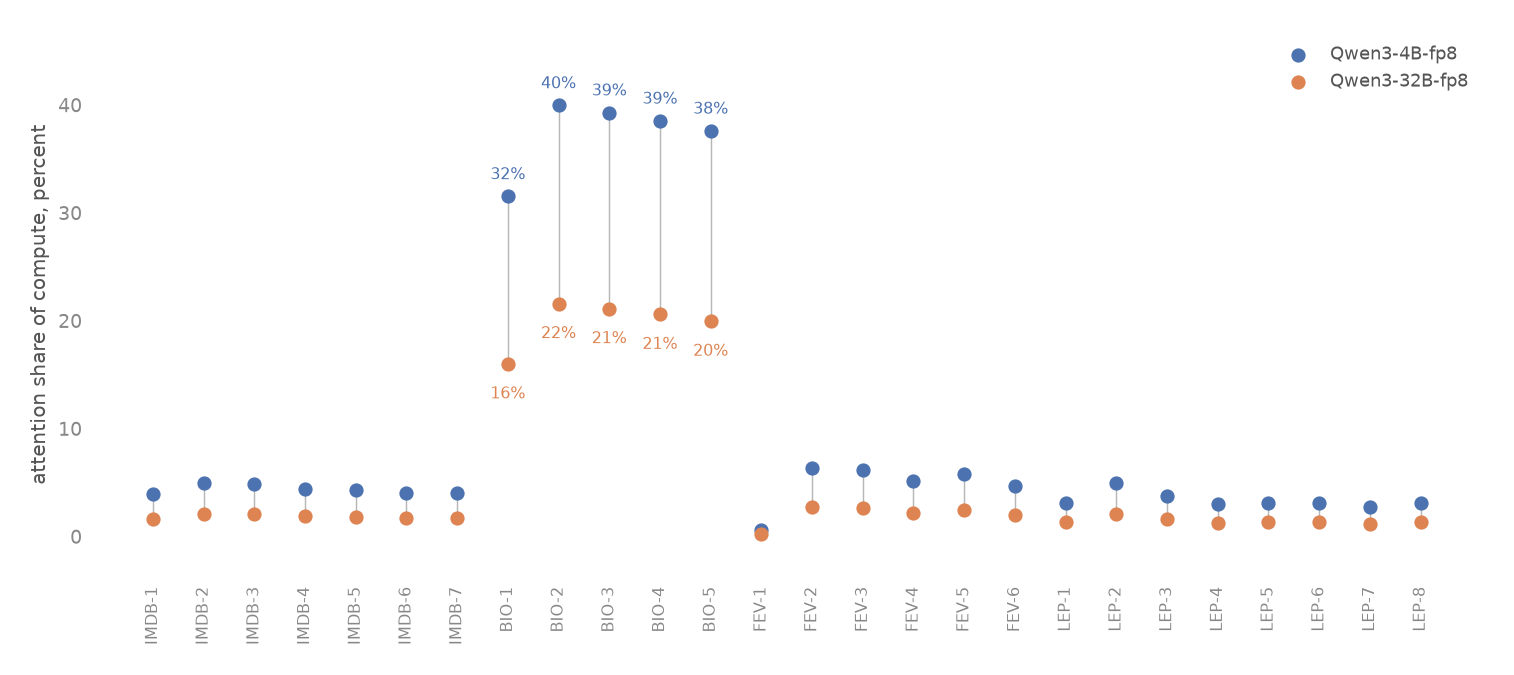
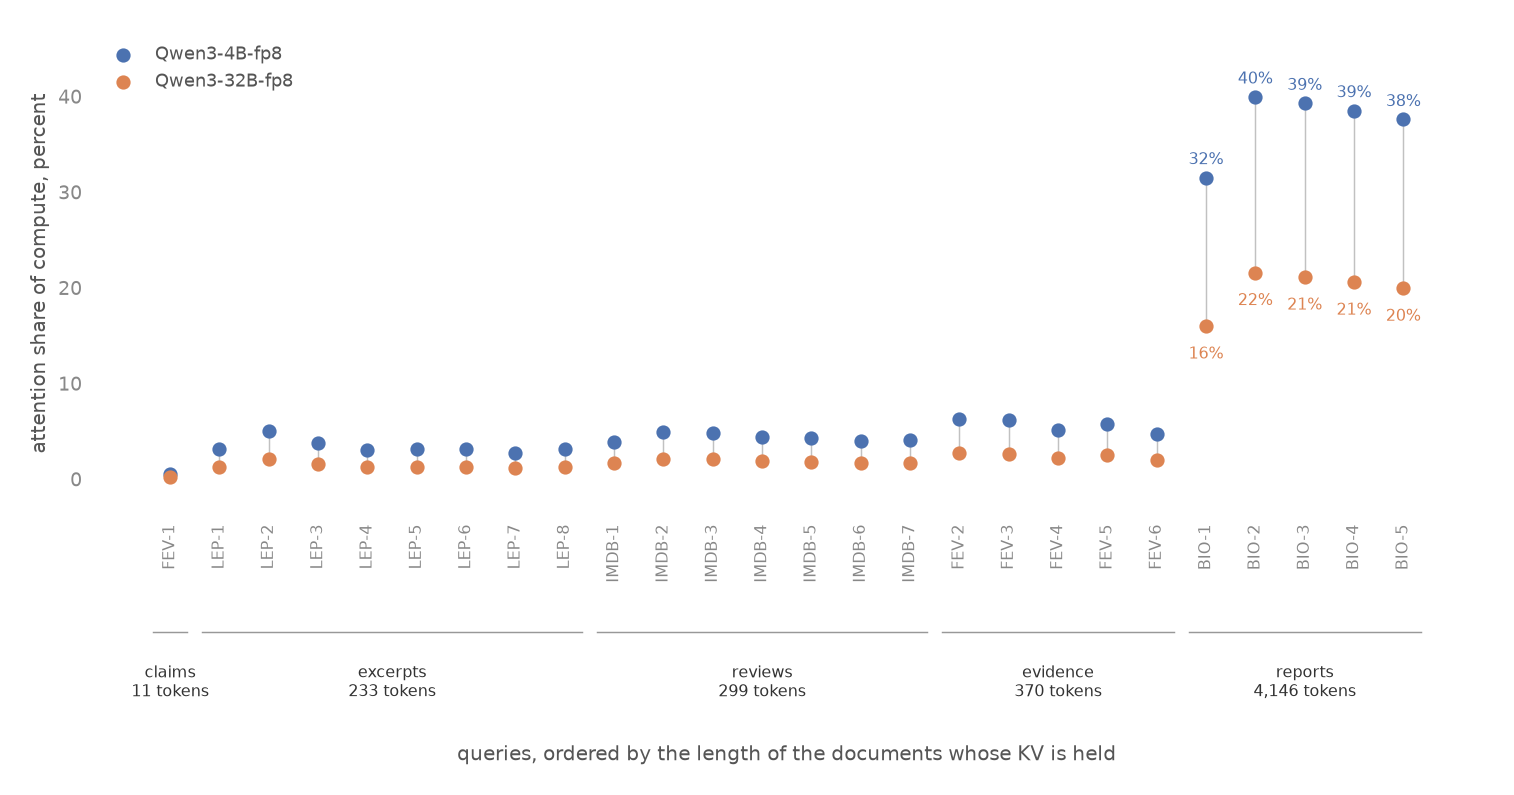
Order the attention figure by held document length, label every query
Held length is the x ordering with the value bracketed under each
group, rather than the x value: 21 of the 26 queries hold documents
between 233 and 370 tokens, so a true length axis stacks them into
one band where 26 labels cannot be read. Ordering keeps the length
on screen and the queries legible.

Corpus brackets use the names the report's prose uses, so the
LePaRD group reads "excerpts" rather than the "citations" table it
comes from.

Claude-Session: https://claude.ai/code/session_01QTPQAmNeew6H2VMfLurGdt

diff --git a/reports/make_sol_quailb_plots.py b/reports/make_sol_quailb_plots.py
@@ -56,39 +56,73 @@ def plot_sol_per_query():
     fig.savefig(OUT / "sol_quailb_per_query.png", dpi=150)
 
 
-def plot_attention_share():
-    """Where each query's compute goes, per query, on both models.
+# what each held column is called in the report's prose
+HELD_NAME = {"reviews.body": "reviews", "reports.report": "reports",
+             "claims.claim": "claims", "evidence.text": "evidence",
+             "citations.destination_context": "excerpts",
+             "citations.passage_text": "passages"}
 
-    Attention pairs are quadratic in the length of the document whose
-    KV is held, so the four BioDEX queries - 4,146-token reports -
-    spend a third to two fifths of their compute on attention where
-    everything else spends under seven percent. The 32B dot is always
-    below the 4B one because attention scales 3.56x with model size
-    where the dense projections scale 8.59x.
+
+def plot_attention_share():
+    """Where each query's compute goes, ordered by the length of the
+    documents whose KV is held.
+
+    Attention pairs are quadratic in that length, so the share climbs
+    left to right and jumps at BioDEX's 4,146-token reports. The 32B
+    dot is always below the 4B one: attention scales 3.56x with model
+    size where the dense projections scale 8.59x.
+
+    Held length is the x ordering rather than the x value. Twenty-one
+    of the 26 queries hold documents between 233 and 370 tokens, so
+    on a true length axis they stack into one band and their labels
+    cannot be read.
     """
-    fig, ax = plt.subplots(figsize=(10, 4.4))
-    x = list(range(len(ORDER)))
+    order = sorted(ORDER, key=lambda q: (Q[q]["held_mean_doc_tokens"], q))
+    x = list(range(len(order)))
 
     def share(q, model):
         m = Q[q]["models"][model]
         return 100 * m["t_attention"] / m["t_compute"]
 
-    lo = [share(q, "qwen3-32b-fp8") for q in ORDER]
-    hi = [share(q, "qwen3-4b-fp8") for q in ORDER]
-    ax.vlines(x, lo, hi, color=DARK, lw=0.7, alpha=0.35)
+    lo = [share(q, "qwen3-32b-fp8") for q in order]
+    hi = [share(q, "qwen3-4b-fp8") for q in order]
+
+    fig, ax = plt.subplots(figsize=(10, 5.2))
+    ax.vlines(x, lo, hi, color=DARK, lw=0.7, alpha=0.3)
     ax.scatter(x, hi, s=34, color=BLUE, label="Qwen3-4B-fp8", zorder=3)
     ax.scatter(x, lo, s=34, color=ORANGE, label="Qwen3-32B-fp8", zorder=3)
-    for i, q in enumerate(ORDER):
+    for i, q in enumerate(order):
         if q.startswith("BIO"):
-            ax.text(i, hi[i] + 1.6, f"{hi[i]:.0f}%", ha="center",
+            ax.text(i, hi[i] + 1.4, f"{hi[i]:.0f}%", ha="center",
                     fontsize=7.5, color=BLUE)
-            ax.text(i, lo[i] - 3.2, f"{lo[i]:.0f}%", ha="center",
+            ax.text(i, lo[i] - 3.4, f"{lo[i]:.0f}%", ha="center",
                     fontsize=7.5, color=ORANGE)
+
+    # one bracket per held corpus, with the length that puts it there
+    trans = ax.get_xaxis_transform()
+    start = 0
+    for i in range(len(order) + 1):
+        same = (i < len(order)
+                and Q[order[i]]["held_column"] == Q[order[start]]["held_column"])
+        if same:
+            continue
+        col = Q[order[start]]["held_column"]
+        mean = Q[order[start]]["held_mean_doc_tokens"]
+        mid = (start + i - 1) / 2
+        ax.plot([start - 0.35, i - 1 + 0.35], [-0.235, -0.235],
+                transform=trans, color=DARK, lw=0.7, alpha=0.5,
+                clip_on=False)
+        ax.text(mid, -0.30, f"{HELD_NAME[col]}\n{mean:,.0f} tokens",
+                transform=trans, ha="center", va="top", fontsize=7.5,
+                color=DARK)
+        start = i
     ax.set_xticks(x)
-    ax.set_xticklabels(ORDER, rotation=90, fontsize=7.5)
+    ax.set_xticklabels(order, rotation=90, fontsize=7.5)
     ax.set_ylabel("attention share of compute, percent")
+    ax.set_xlabel("queries, ordered by the length of the documents "
+                  "whose KV is held", labelpad=78)
     ax.set_ylim(-4, 47)
-    ax.legend(frameon=False, loc="upper right", fontsize=8.5)
+    ax.legend(frameon=False, loc="upper left", fontsize=8.5)
     fig.tight_layout()
     fig.savefig(OUT / "sol_quailb_attention_share.png", dpi=150)
 

diff --git a/reports/2026-08-25-sol-quailb.md b/reports/2026-08-25-sol-quailb.md
@@ -168,7 +168,8 @@ The two compute terms grow differently. `T_dense` is linear in
 tokens; `T_attention` is quadratic in the length of the document
 whose KV is held, because a sequence of length `m` scores `T(m)`
 pairs. So the longer the held document, the larger attention's share
-of the work.
+of the work. The figure orders the 26 queries by that length, and
+the share climbs across it.
 
 The two terms also scale differently with model size. `T_dense`
 scales with the parameter count, 31,206,298,624 over 3,633,511,936
